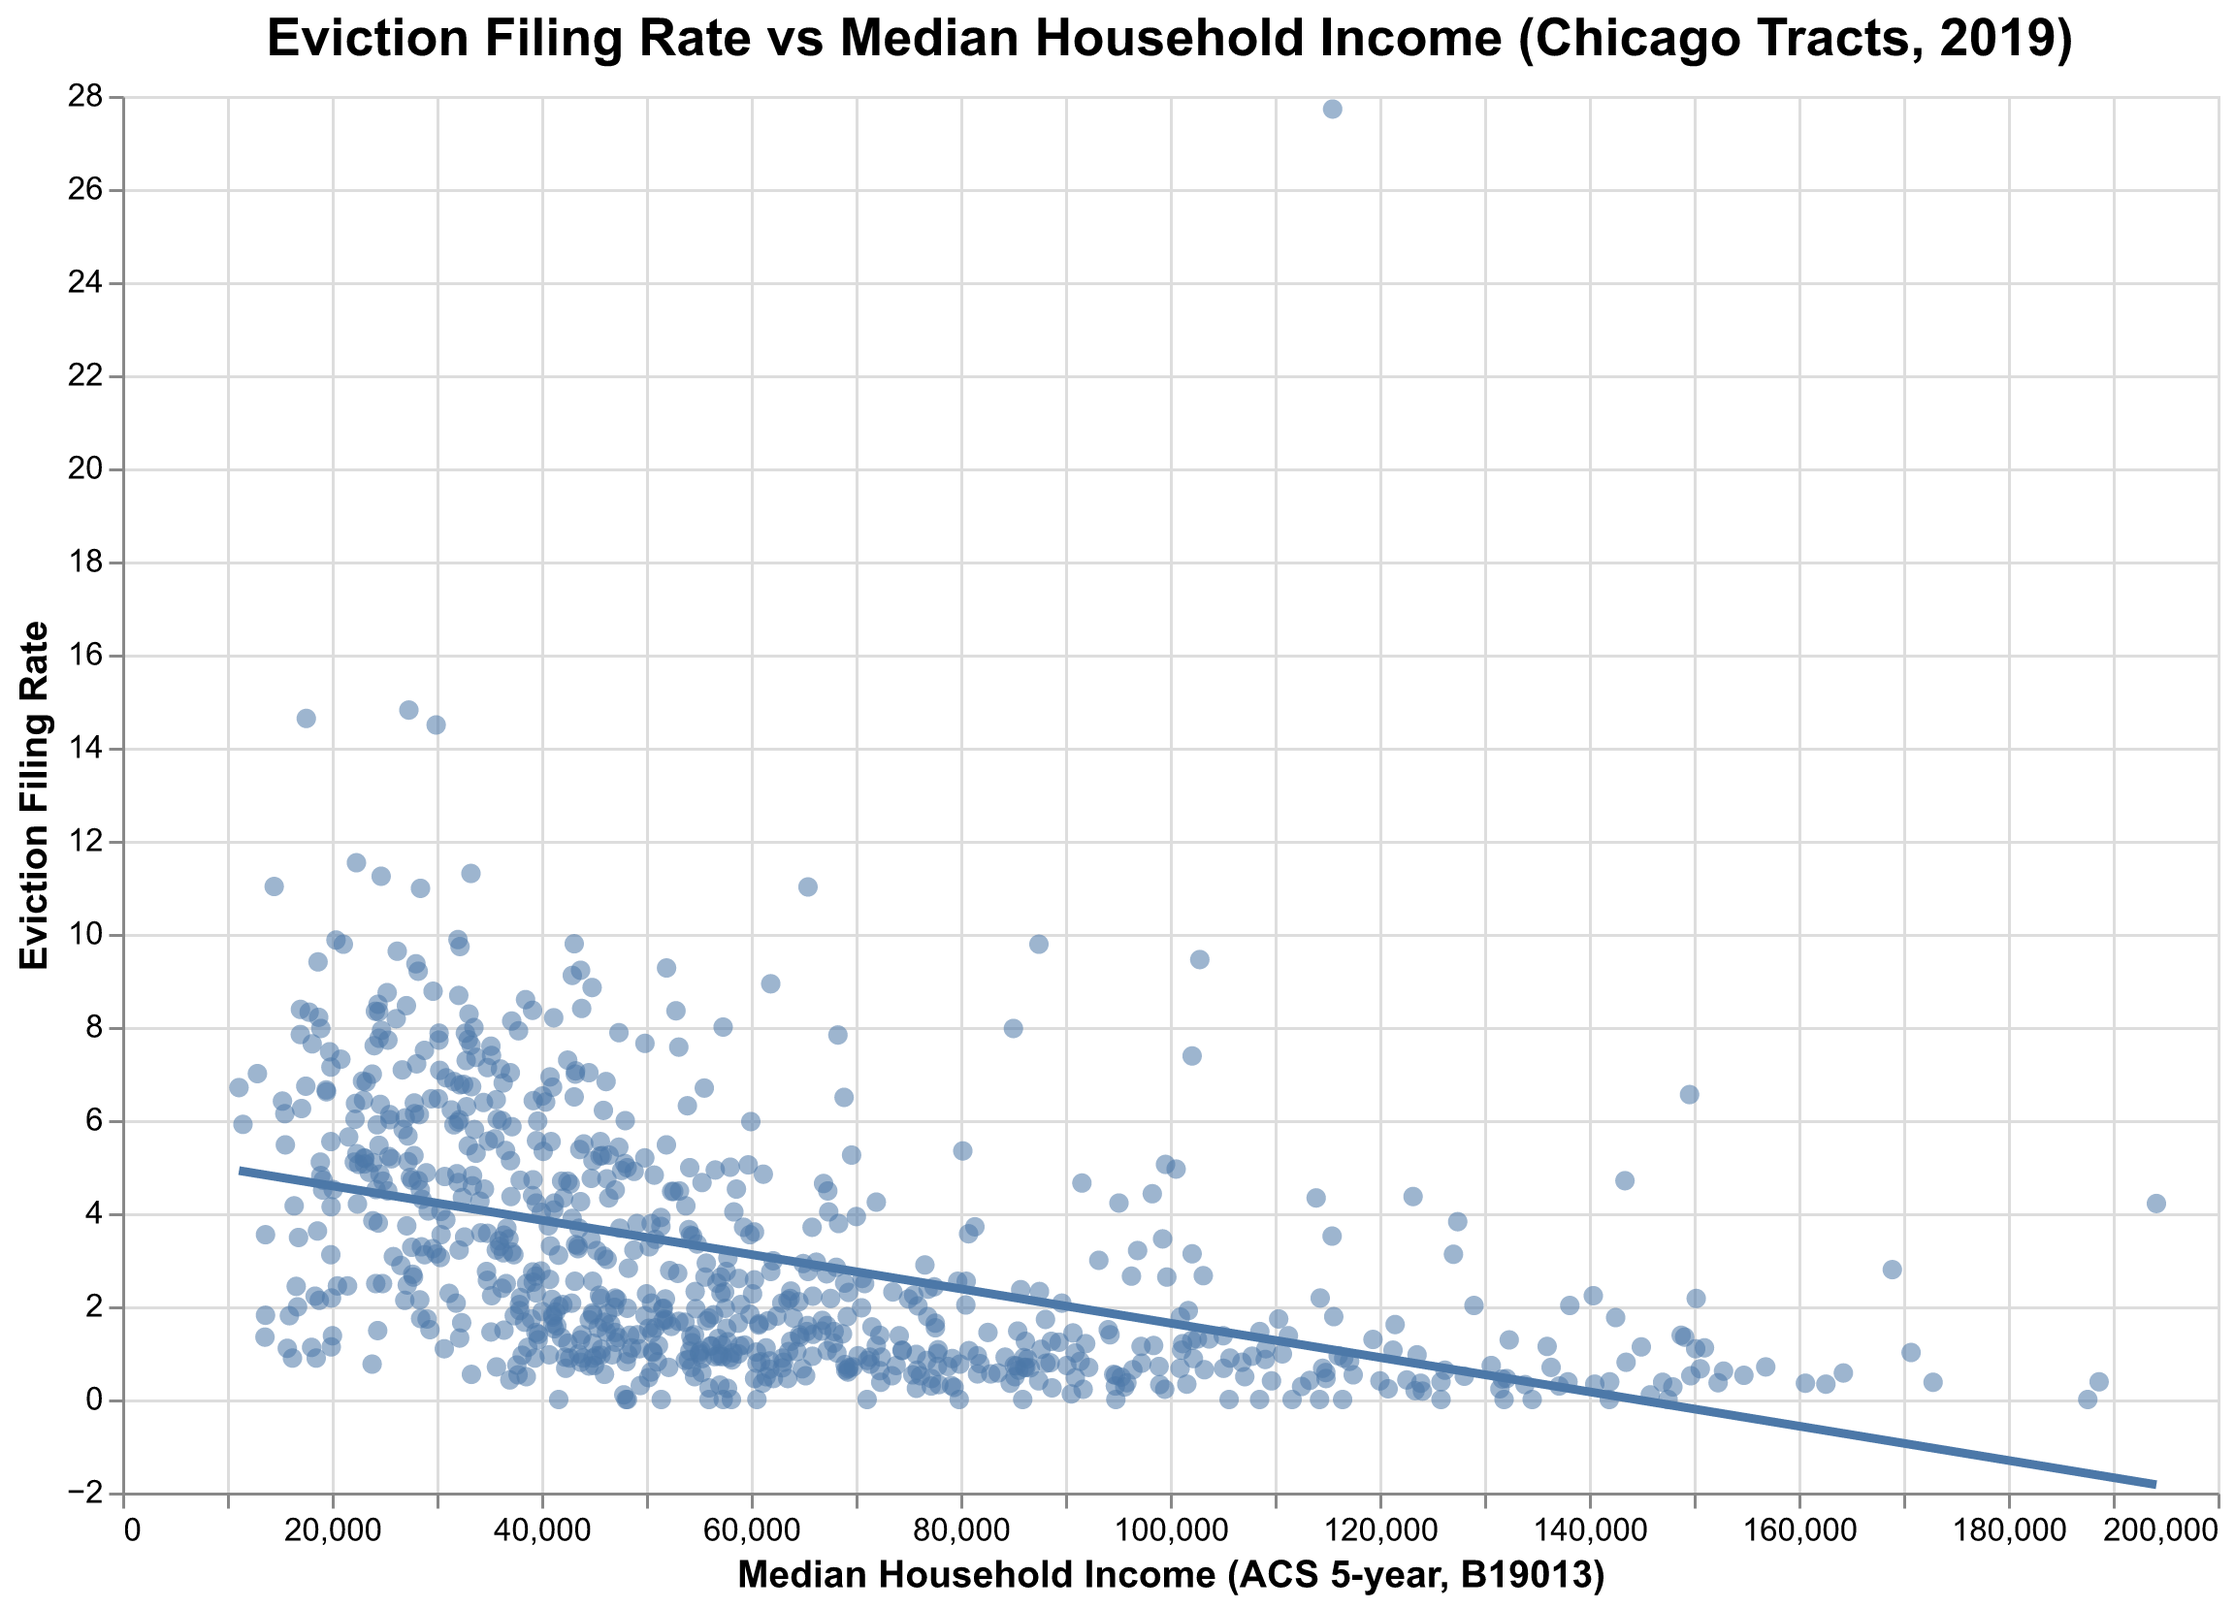
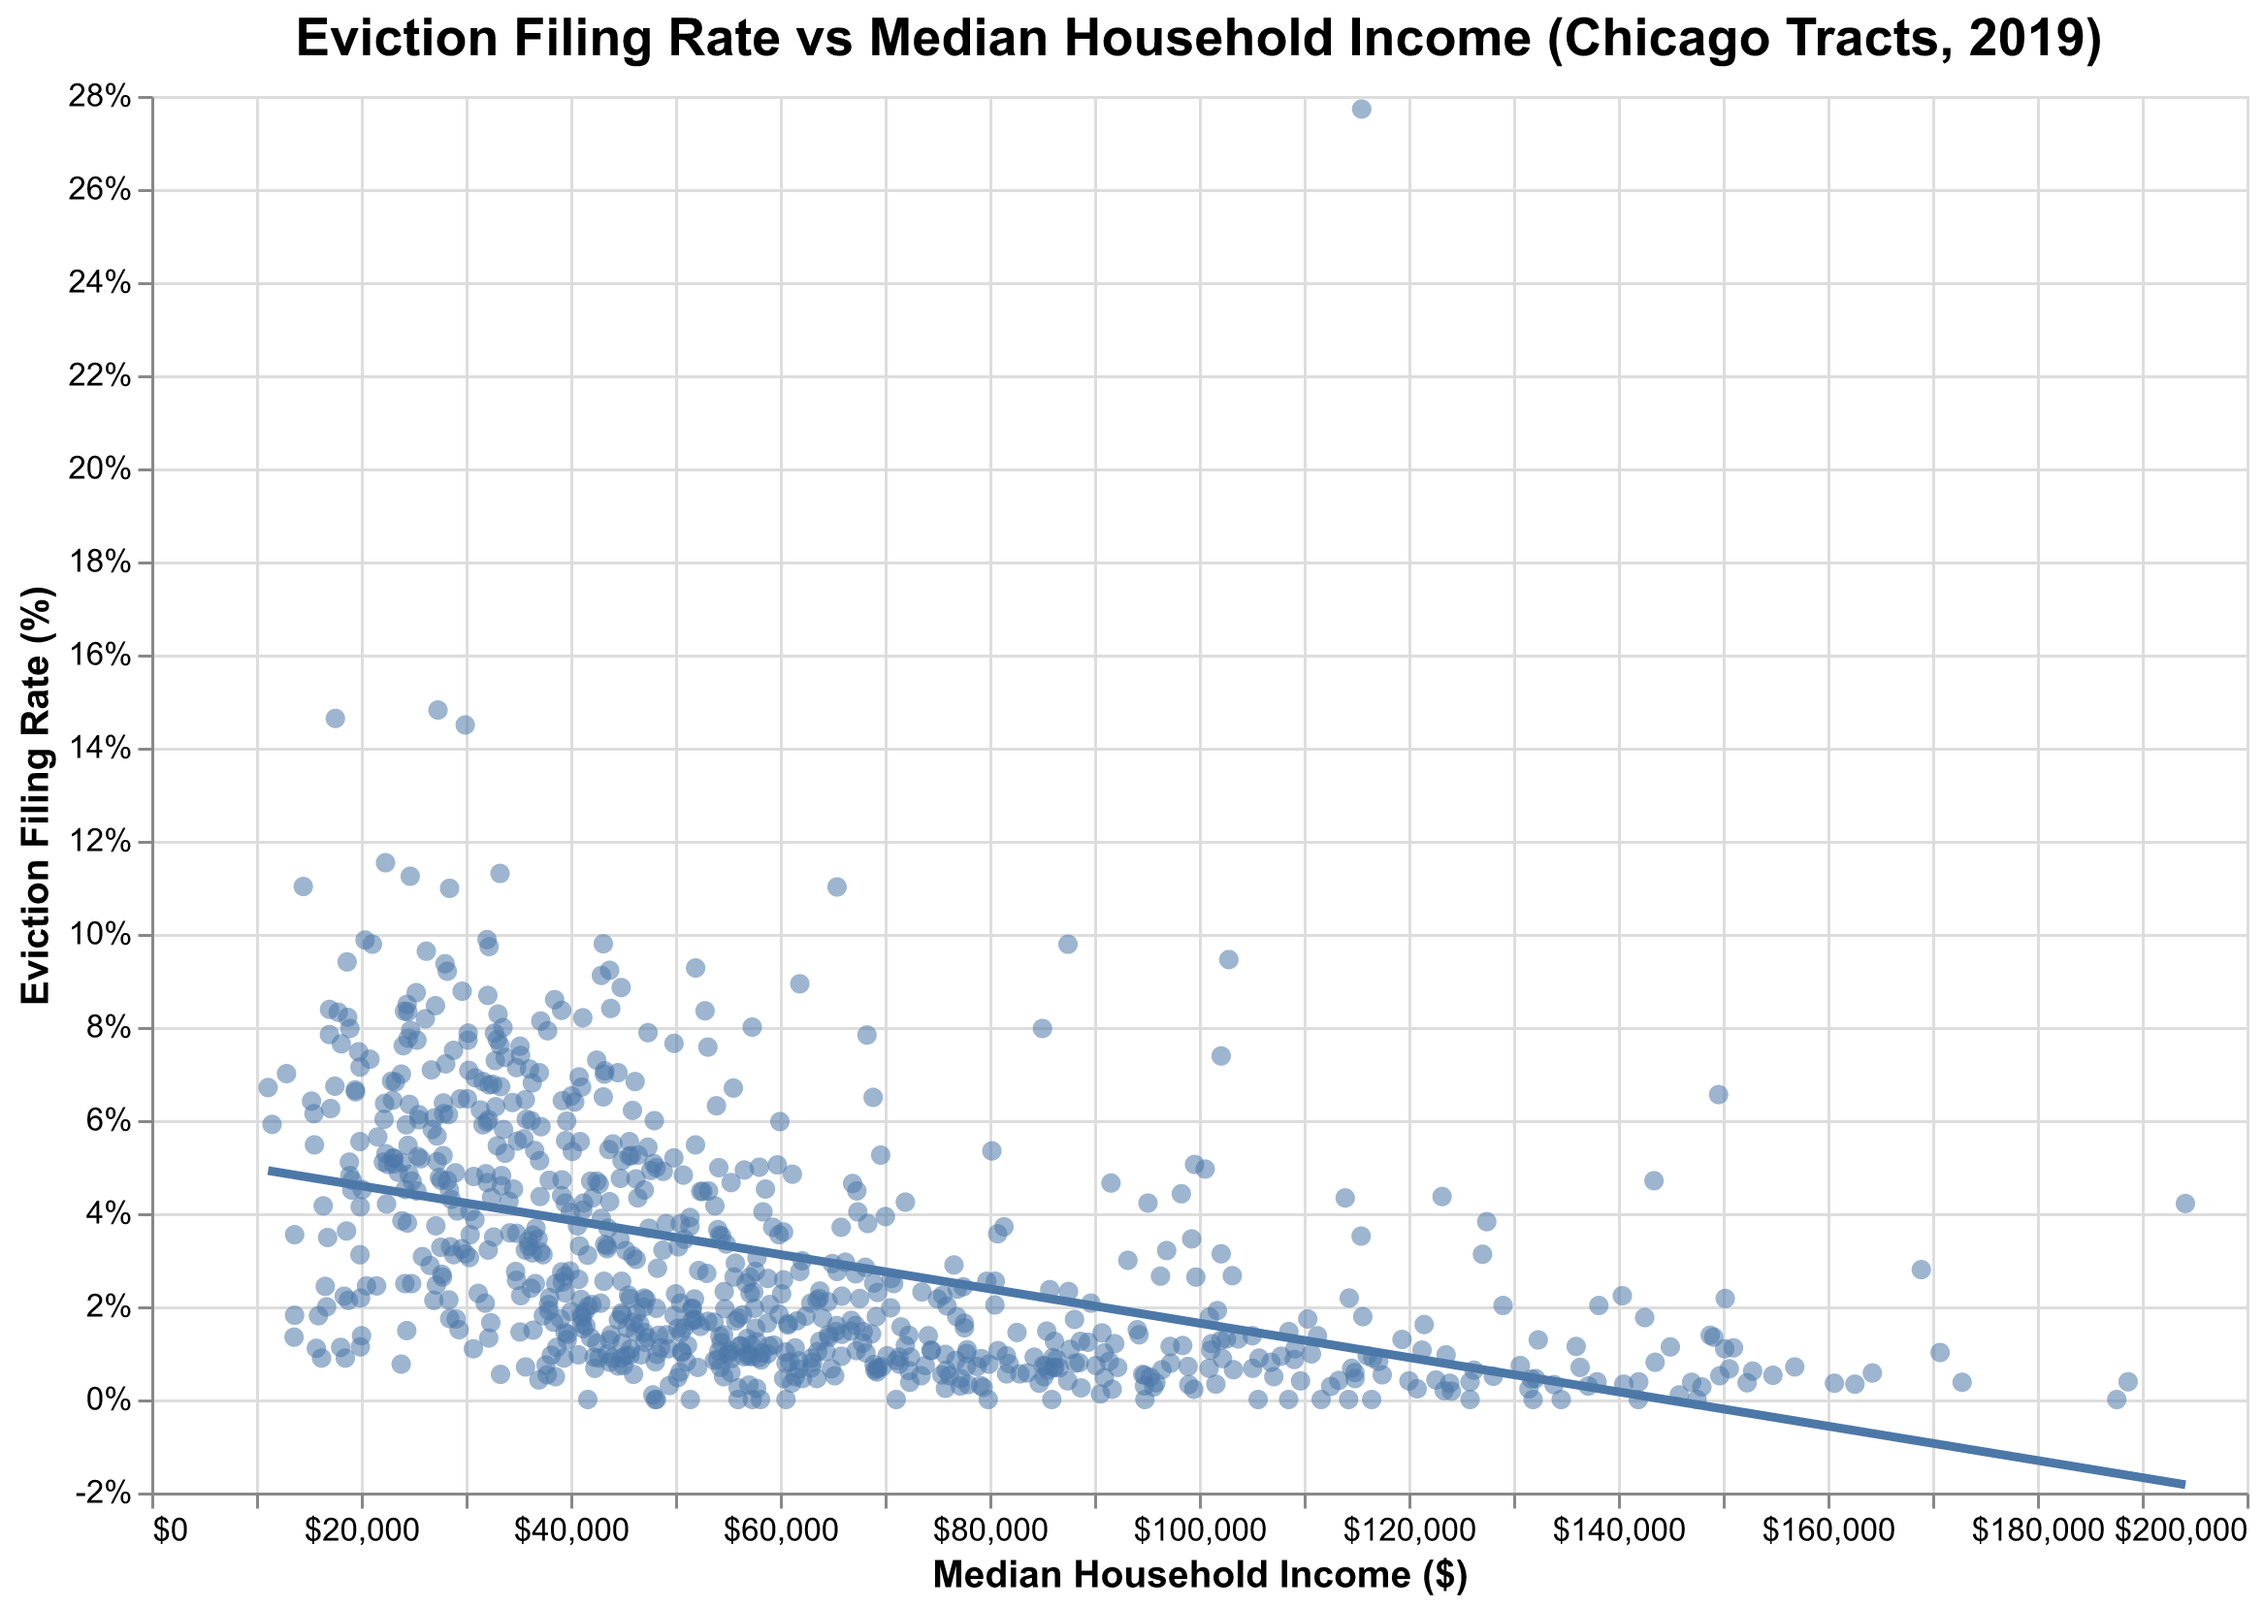
Update plot scripts and figures

diff --git a/code/plot_3_boxplot.py b/code/plot_3_boxplot.py
@@ -12,81 +12,82 @@ DERIVED_DIR = REPO_DIR / "data" / "derived-data"
 # figures directory: figures/
 FIG_DIR = REPO_DIR / "figures"
 
-# main function to plot the boxplot of the eviction filing rate by poverty quartile
+# main function to plot the boxplot of the eviction filing rate by minority share quartile
 def main():
     # load data
     df_path = DERIVED_DIR / "chicago_eviction_analytic_2019.csv"
-    # read the csv file into a pandas dataframe
     df = pd.read_csv(df_path)
 
-    # create poverty quartiles
-    full_labels = [
-        "Q1 (Lowest Poverty)",
+    # required columns
+    df = df.dropna(subset=["minority_share", "eviction_filings_rate"]).copy()
+
+    # if minority_share is stored as 0.28, convert it to 28 for nicer display
+    if df["minority_share"].max() <= 1:
+        df["minority_share_display"] = df["minority_share"] * 100
+    else:
+        df["minority_share_display"] = df["minority_share"]
+
+    # ordered minority-share quartiles
+    q_labels = [
+        "Q1 (Lowest minority share)",
         "Q2",
         "Q3",
-        "Q4 (Highest Poverty)"
+        "Q4 (Highest minority share)",
     ]
 
-    # create a new column of poverty quartiles
-    df["poverty_quantile"] = pd.qcut(
-        df["poverty_rate"],
+    # create a new column of minority share quartiles
+    df["minority_quartile"] = pd.qcut(
+        df["minority_share"],
         q=4,
-        labels=full_labels,
+        labels=q_labels,
         duplicates="drop",
     )
 
-    # drop missing values in the plot
-    df = df.dropna(subset=["poverty_quantile", "eviction_filings_rate"]).copy()
+    # drop rows with missing values in the minority quartile column
+    df = df.dropna(subset=["minority_quartile"]).copy()
 
-    # make the poverty quantile column a categorical column
-    df["poverty_quantile"] = pd.Categorical(
-        df["poverty_quantile"],
-        categories=full_labels,
-        ordered=True
+    # make the minority quartile column a categorical column
+    df["minority_quartile"] = pd.Categorical(
+        df["minority_quartile"],
+        categories=q_labels,
+        ordered=True,
     )
 
-    # create a boxplot
-    chart = alt.Chart(df).mark_boxplot(size=50, extent=1.5).encode(
-            x=alt.X(
-                "poverty_quantile:N",
-                title="Poverty-Rate Quartile",
-                sort=full_labels,
-                axis=alt.Axis(labelAngle=0, labelFontSize=12, titleFontSize=13)
-            ),
-            y=alt.Y(
-                "eviction_filings_rate:Q",
-                title="Eviction Filing Rate",
-                scale=alt.Scale(zero=True),
-                axis=alt.Axis(labelFontSize=12, titleFontSize=13)
-            ),
-        ).properties(
-            title="Eviction Filing Rate by Poverty-Rate Quartile (Chicago Tracts, 2019)",
-            width=720,
-            height=430
-        ).configure_title(
-            fontSize=18,
-            anchor="middle"
-        ).configure_axis(
-            grid=True,
-            gridColor="#e6e6e6",
-            domainColor="#888888",
-            tickColor="#888888"
-        ).configure_view(
-            stroke=None
-        )
+    # make a boxplot chart
+    chart = alt.Chart(df).mark_boxplot(size=60, extent=1.5).encode(
+        x=alt.X(
+            "minority_quartile:N",
+            title="Minority Share Quartile",
+            sort=q_labels,
+            axis=alt.Axis(labelAngle=0),
+        ),
+        y=alt.Y(
+            "eviction_filings_rate:Q",
+            title="Eviction Filing Rate (%)",
+            scale=alt.Scale(zero=True),
+            axis=alt.Axis(labelExpr="datum.value + '%'"),
+        ),
+        tooltip=[
+            alt.Tooltip("minority_share_display:Q", title="Minority share", format=".0f"),
+            alt.Tooltip("eviction_filings_rate:Q", title="Eviction rate", format=".0f"),
+        ],
+    ).properties(
+        title="Eviction Filing Rate by Minority-Share Quartile (Chicago Tracts, 2019)",
+        width=740,
+        height=430,
+    ).configure_title(
+        fontSize=18,
+        anchor="middle"
+    ).configure_axis(
+        titleFontSize=13,
+        labelFontSize=11,
+        grid=True,
+        gridColor="#e6e6e6"
+    ).configure_view(stroke=None)
 
-    # path to the figure: figures/plot_3_boxplot_eviction_by_poverty_quantile.png
-    out_path = FIG_DIR / "plot_3_boxplot_eviction_by_poverty_quantile.png"
-
-    # save the chart to the figures directory
+    out_path = FIG_DIR / "plot_3_boxplot_eviction_by_minority_quartile.png"
     save_altair_png(chart, out_path, scale=3)
-    print(f"Saved PNG: {out_path}")
+    print(f"Saved: {out_path}")
 
-    # save as HTML
-    # html_path = FIG_DIR / "plot_3_boxplot_eviction_by_poverty_quantile.html"
-    # chart.save(html_path)
-    # print(f"Saved HTML: {html_path}")
-
-# main function to run the script
 if __name__ == "__main__":
     main()

diff --git a/code/plot_4_hotspot.py b/code/plot_4_hotspot.py
@@ -16,7 +16,6 @@ FIG_DIR = REPO_DIR / "figures"
 def main():
     # load data
     df_path = DERIVED_DIR / "chicago_eviction_analytic_2019.csv"
-    # read the csv file into a pandas dataframe
     df = pd.read_csv(df_path)
 
     # city medians for context
@@ -41,49 +40,65 @@ def main():
         ),
         axis=1
     )
+
     # make the tract column a string column
     top["tract"] = top["tract"].astype(str)
 
+    # create label columns for tooltip
+    top["eviction_rate_label"] = top["eviction_filings_rate"].round(0).astype(int).astype(str) + "%"
+    top["income_label"] = "$" + top["median_household_income"].round(0).astype(int).map("{:,}".format)
+    top["poverty_label"] = (top["poverty_rate"] * 100).round(0).astype(int).astype(str) + "%"
+    top["minority_label"] = (top["minority_share"] * 100).round(0).astype(int).astype(str) + "%"
+
     # create a bar chart
     bars = alt.Chart(top).mark_bar().encode(
-            x=alt.X(
-                "eviction_filings_rate:Q",
-                title="Eviction Filing Rate"
-            ),
-            y=alt.Y(
-                "tract:N",
-                sort=list(top["tract"]),
-                title="Census Tract"
-            ),
-            tooltip=[
-                alt.Tooltip("tract:N", title="Tract"),
-                alt.Tooltip("eviction_filings_rate:Q", title="Eviction rate", format=".3f"),
-                alt.Tooltip("median_household_income:Q", title="Income", format=",.0f"),
-                alt.Tooltip("poverty_rate:Q", title="Poverty", format=".1%"),
-                alt.Tooltip("minority_share:Q", title="Minority share", format=".1%"),
-            ],
-        )
+        x=alt.X(
+            "eviction_filings_rate:Q",
+            title="Eviction Filing Rate (%)",
+            axis=alt.Axis(labelExpr="datum.value + '%'")
+        ),
+        y=alt.Y(
+            "tract:N",
+            sort=list(top["tract"]),
+            title="Census Tract"
+        ),
+        tooltip=[
+            alt.Tooltip("tract:N", title="Tract"),
+            alt.Tooltip("eviction_rate_label:N", title="Eviction rate"),
+            alt.Tooltip("income_label:N", title="Income"),
+            alt.Tooltip("poverty_label:N", title="Poverty"),
+            alt.Tooltip("minority_label:N", title="Minority share"),
+        ],
+    )
 
     # text labels to the right of bars
-    text = alt.Chart(top).mark_text(align="left", baseline="middle", dx=5, fontSize=11).encode(
-            x=alt.X("eviction_filings_rate:Q"),
-            y=alt.Y("tract:N", sort=list(top["tract"])),
-            text="context_label:N"
-        )
+    text = alt.Chart(top).mark_text(
+        align="left",
+        baseline="middle",
+        dx=5,
+        fontSize=11
+    ).encode(
+        x=alt.X("eviction_filings_rate:Q"),
+        y=alt.Y("tract:N", sort=list(top["tract"])),
+        text="context_label:N"
+    )
 
     # create a chart
     chart = (bars + text).properties(
         title="Top 10 Chicago Census Tracts by Eviction Filing Rate (2019)",
         width=760,
         height=420
-        ).configure_title(fontSize=18, anchor="middle").configure_axis(
-            titleFontSize=13,
-            labelFontSize=11,
-            grid=True,
-            gridColor="#e6e6e6",
-            domainColor="#888888",
-            tickColor="#888888"
-        ).configure_view(stroke=None)
+    ).configure_title(
+        fontSize=18,
+        anchor="middle"
+    ).configure_axis(
+        titleFontSize=13,
+        labelFontSize=11,
+        grid=True,
+        gridColor="#e6e6e6",
+        domainColor="#888888",
+        tickColor="#888888"
+    ).configure_view(stroke=None)
 
     # path to the figure: figures/plot_4_top_tracts_hotspot_context.png
     out_path = FIG_DIR / "plot_4_top_tracts_hotspot_context.png"
@@ -91,11 +106,6 @@ def main():
     # save the chart to the figures directory
     save_altair_png(chart, out_path, scale=3)
     print(f"Saved PNG: {out_path}")
-
-    # save as HTML
-    # html_path = FIG_DIR / "plot_4_top_tracts_hotspot_context.html"
-    # chart.save(html_path)
-    # print(f"Saved HTML: {html_path}")
 
     # also print city medians for reference
     print(

diff --git a/code/plot_2_scatter.py b/code/plot_2_scatter.py
@@ -16,42 +16,55 @@ FIG_DIR = REPO_DIR / "figures"
 def main():
     # load data
     df_path = DERIVED_DIR / "chicago_eviction_analytic_2019.csv"
-    # read the csv file into a pandas dataframe
     df = pd.read_csv(df_path)
 
     # keep only the columns we need and drop missing values
-    df = df[["median_household_income", "eviction_filings_rate"]].dropna()
+    df = df[["median_household_income", "eviction_filings_rate"]].dropna().copy()
+
+    # create tooltip label columns
+    df["income_label"] = "$" + df["median_household_income"].round(0).astype(int).map("{:,}".format)
+    df["eviction_rate_label"] = df["eviction_filings_rate"].round(0).astype(int).astype(str) + "%"
 
     # create a scatter plot
     points = alt.Chart(df).mark_circle(size=45, opacity=0.55).encode(
-            x=alt.X(
-                "median_household_income:Q",
-                title="Median Household Income (ACS 5-year, B19013)",
-                scale=alt.Scale(zero=False)
-            ),
-            y=alt.Y(
-                "eviction_filings_rate:Q",
-                title="Eviction Filing Rate",
-                scale=alt.Scale(zero=False)
-            ),
-            tooltip=[
-                alt.Tooltip("median_household_income:Q", title="Income", format=",.0f"),
-                alt.Tooltip("eviction_filings_rate:Q", title="Eviction rate", format=".3f")
-            ]
-        )
+        x=alt.X(
+            "median_household_income:Q",
+            title="Median Household Income ($)",
+            scale=alt.Scale(zero=False),
+            axis=alt.Axis(labelExpr="'$' + format(datum.value, ',.0f')")
+        ),
+        y=alt.Y(
+            "eviction_filings_rate:Q",
+            title="Eviction Filing Rate (%)",
+            scale=alt.Scale(zero=False),
+            axis=alt.Axis(labelExpr="datum.value + '%'")
+        ),
+        tooltip=[
+            alt.Tooltip("income_label:N", title="Income"),
+            alt.Tooltip("eviction_rate_label:N", title="Eviction rate")
+        ]
+    )
 
     # create a linear trend line
-    trend = alt.Chart(df).transform_regression("median_household_income", "eviction_filings_rate").mark_line(size=3).encode(
-            x="median_household_income:Q",
-            y="eviction_filings_rate:Q"
-        )
+    trend = alt.Chart(df).transform_regression(
+        "median_household_income",
+        "eviction_filings_rate"
+    ).mark_line(size=3).encode(
+        x="median_household_income:Q",
+        y="eviction_filings_rate:Q"
+    )
 
     # create a chart
     chart = (points + trend).properties(
-            title="Eviction Filing Rate vs Median Household Income (Chicago Tracts, 2019)",
-            width=720,
-            height=480,
-        ).configure_title(fontSize=18).configure_axis(titleFontSize=13, labelFontSize=11)
+        title="Eviction Filing Rate vs Median Household Income (Chicago Tracts, 2019)",
+        width=720,
+        height=480,
+    ).configure_title(
+        fontSize=18
+    ).configure_axis(
+        titleFontSize=13,
+        labelFontSize=11
+    )
 
     # path to the figure: figures/plot_2_scatter_eviction_vs_income.png
     out_path = FIG_DIR / "plot_2_scatter_eviction_vs_income.png"
@@ -59,11 +72,6 @@ def main():
     # save the chart to the figures directory
     save_altair_png(chart, out_path, scale=3)
     print(f"Saved PNG: {out_path}")
-
-    # save the chart as HTML
-    # html_path = FIG_DIR / "plot_2_scatter_eviction_vs_income.html"
-    # chart.save(html_path)
-    # print(f"Saved HTML: {html_path}")
 
 # main function to run the script
 if __name__ == "__main__":
